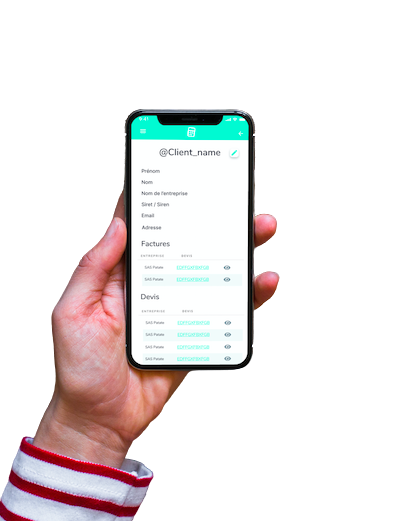
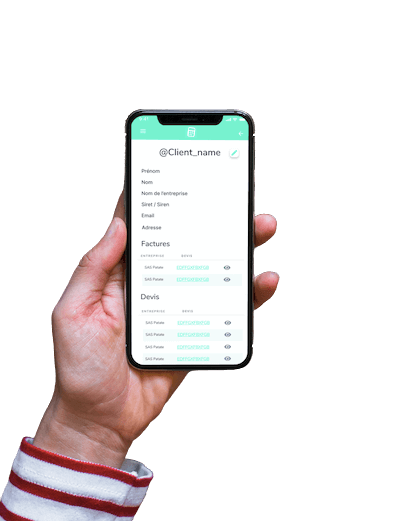
[Front]Landing page tinified images to assets

diff --git a/app/assets/stylesheets/landing.scss b/app/assets/stylesheets/landing.scss
@@ -21,9 +21,10 @@ h1, h2, h3, h4, h5, h6 {
   color: #2F3240;
 }
 
-.body {
+body {
 
   color:#484C5E;
+  font-family: Nunito;
 
 }
 .green-new {
@@ -39,6 +40,8 @@ h1, h2, h3, h4, h5, h6 {
   background-color: #2F3240;
 }
 
+
+/*Boutons*/
 .btn-jumbo{
   background-color: #2F3240;
   color: #FFFFFF;
@@ -47,7 +50,33 @@ h1, h2, h3, h4, h5, h6 {
   font-width: bold;
 }
 
+.btn-jumbo2{
+  background-color: #36F1CD;
+  color: #FFFFFF;
+  box-shadow: aliceblue;
+  font-size: 18px;
+  font-width: bold;
+}
+
+/*Jumbotron*/
 .jumbo-text{
   color: #FFFFFF;
 }
-
+/*Video*/
+.video-container {
+  position:relative;
+  margin:0 auto;
+  padding-bottom:56.25%; /* ratio 16:9 */
+  padding-top:30px;
+  height:0;
+  overflow:hidden
+}
+.video-container iframe {
+  position:absolute;
+  top:0;
+  left:0;
+  bottom:0;
+  right:0;
+  width:100%;
+  height:100%;
+}
